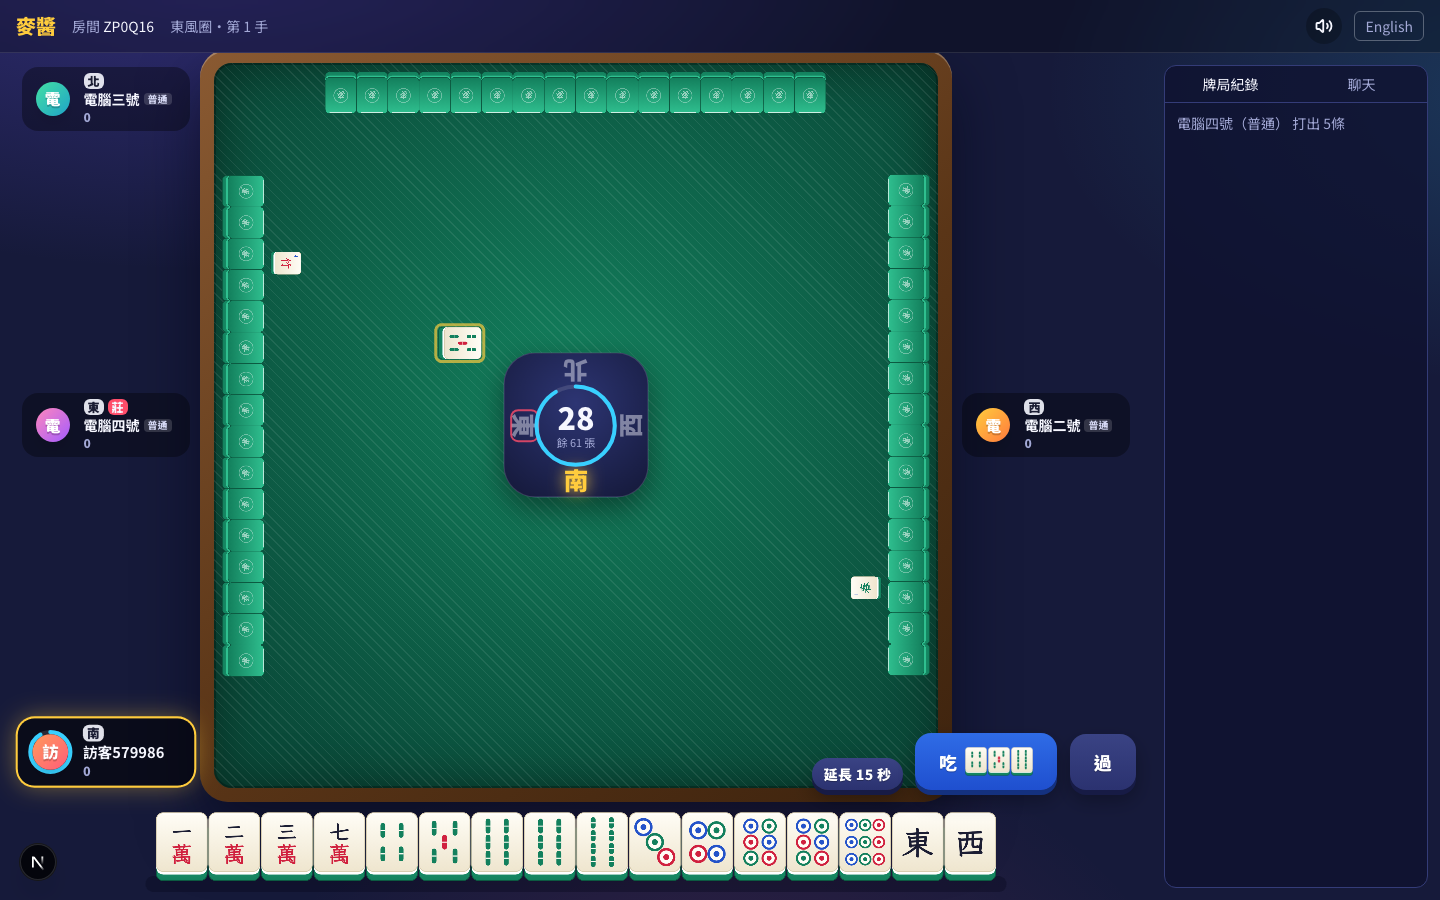
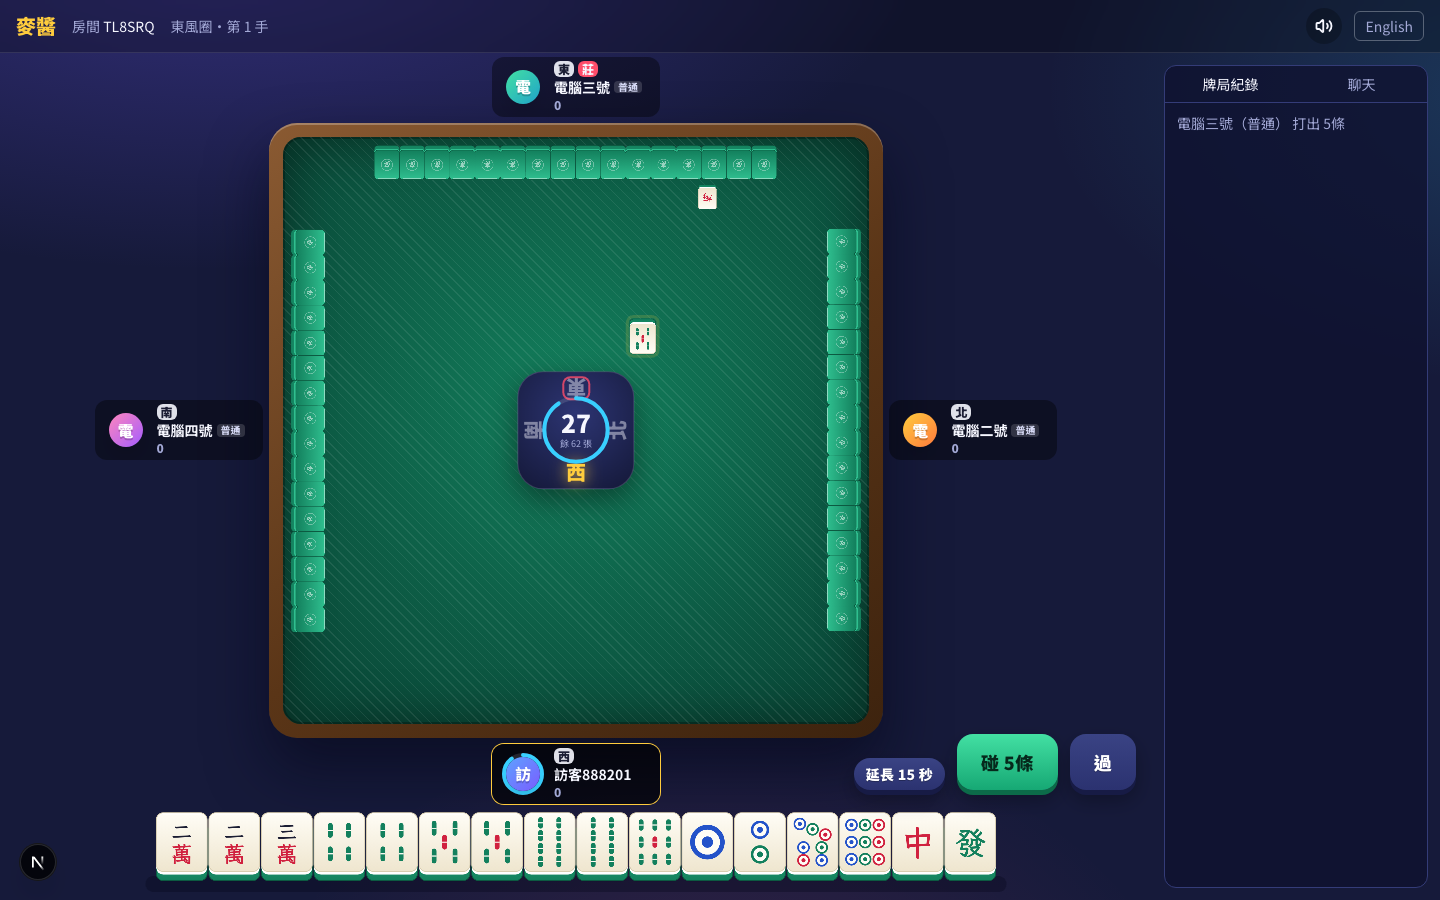
docs: expand product architecture and reinforcement learning guide

Changed region(s): [[0.0, 0.0311, 0.7812, 0.9644], [0.2812, 0.3422, 0.4688, 0.56]]

diff --git a/README.md b/README.md
@@ -12,8 +12,10 @@
 ## 目錄
 
 - [遊戲與產品](#遊戲與產品)
+- [操作與裝置支援](#操作與裝置支援)
 - [快速開始](#快速開始)
 - [規則與系統架構](#規則與系統架構)
+- [即時連線與資料流](#即時連線與資料流)
 - [AI 與強化學習](#ai-與強化學習)
 - [實驗與模型評估](#實驗與模型評估)
 - [開發自己的代理程式](#開發自己的代理程式)
@@ -50,6 +52,25 @@
 
 ![單人練習：從真實牌局抽出的情境](assets/screenshots/practice.png)
 
+## 操作與裝置支援
+
+桌面牌桌將四家資訊置於桌框外的四邊中央，保留牌河、手牌、副露與花牌的顯示空間。輪到玩家行動時，資訊區塊與倒數會標示目前狀態；吃、碰、槓、聽與補花以短暫的牌面標記呈現。
+
+手機對局以**橫向遊玩**為主要操作方式。窄螢幕直向進入對局會顯示旋轉提示，轉成橫向後自動顯示牌桌；大廳、課程與排行榜仍可直向瀏覽。這是依螢幕方向顯示的介面提示，瀏覽器不會強制旋轉作業系統畫面。矮螢幕會使用精簡玩家資訊與縮整的操作鈕。
+
+| 操作 | 鍵盤 |
+| --- | --- |
+| 選擇手牌 | `←`／`→` |
+| 打出選牌 | `Enter` |
+| 打出並宣告聽牌 | `T` |
+| 胡／碰／槓／吃 | `H`／`P`／`K`／`C` |
+| 過 | `X` |
+| 提示 | `?` |
+
+可操作動作以伺服器回傳的合法動作為準。牌桌另有可供螢幕閱讀器使用的手牌清單與狀態宣告；設定減少動態效果的裝置會停用大部分動畫。PWA 提供安裝與離線頁面，實際多人對局仍需要連線至後端。
+
+![手機橫向對局：四邊玩家資訊與一排手牌](assets/screenshots/table-landscape.png)
+
 ## 快速開始
 
 ### 需求
@@ -76,6 +97,34 @@ uv run python -m engine.cli watch --seed 3
 ~~~
 
 只需後端與遊戲功能時，可安裝 `uv sync --extra backend`；訓練與模型推論需要 `ai` 額外套件。更多環境變數參考 [`.env.example`](.env.example)。
+
+### 分別啟動服務
+
+需要調整埠號、除錯 WebSocket 或開啟多個終端機時，可以分別啟動：
+
+~~~bash
+# 終端機一：專案根目錄
+uv run --no-sync uvicorn backend.main:app --reload --host 127.0.0.1 --port 8000
+
+# 終端機二
+cd frontend
+pnpm dev
+~~~
+
+後端設定由程序環境變數讀取；`.env.example` 是設定參考。若另存為 `.env`，可使用 `uvicorn --env-file .env` 載入後端環境；前端的公開設定可放在 `frontend/.env.local`。`NEXT_PUBLIC_*` 會進入瀏覽器端程式，應僅放公開連線設定。
+
+### 模型與實驗資料
+
+`data/`、`checkpoints/`、`runs/` 都是本機產物目錄，預設不納入 Git。乾淨 clone 不會自動取得本機訓練權重、天梯原始牌譜或歷史訓練曲線。可先以內建規則代理遊玩，再依後文自行產生資料、訓練與評估。
+
+| 路徑 | 內容 | 產生方式 |
+| --- | --- | --- |
+| `data/bc/` | BC 用對局紀錄 | `scripts/simulate_batch.py --save` |
+| `checkpoints/` | PyTorch／SB3 權重與晉升設定 | 各 trainer 與 `ai.training.promote` |
+| `runs/<run>/config.json` | 該次訓練參數 | `MetricsLogger` |
+| `runs/<run>/metrics.jsonl` | 隨訓練追加的指標 | 各 trainer |
+| `data/replays/` | 本機錄影 | 後端對局持久化 |
+| `data/agents/` | 社群提交與模型 | 後端提交 API |
 
 ## 規則與系統架構
 
@@ -105,9 +154,72 @@ flowchart LR
 
 後端預設可使用 SQLite、程序內任務執行器與本機錄影儲存。需要跨實例房間恢復與發布訂閱時可接 Redis；持久化錄影可接 S3 相容儲存；實驗室背景工作可接 Celery。這些服務的設定入口集中在 [`.env.example`](.env.example) 與 [`docker-compose.yml`](docker-compose.yml)。
 
+### 規則引擎的邊界
+
+`GameState` 表達一手的手牌、副露、牌河、牌牆、莊家、圈風、行動階段與支付結果；`Match` 負責跨手的局數、分數與莊家推進。`get_legal_actions` 決定目前座位可採取的動作，`acting_players` 表達當下需要回應的座位。
+
+~~~mermaid
+stateDiagram-v2
+    [*] --> DISCARD: 發牌與補花
+    DISCARD --> RESPONSE: 打出一張牌
+    RESPONSE --> DISCARD: 無人取牌或完成吃碰槓
+    DISCARD --> ROB_KONG: 加槓的搶槓視窗
+    ROB_KONG --> DISCARD: 無人搶槓
+    RESPONSE --> ENDED: 胡牌
+    ROB_KONG --> ENDED: 搶槓胡
+    DISCARD --> ENDED: 自摸或流局
+    ENDED --> [*]
+~~~
+
+這張圖是主要階段的概覽；補花與槓後補牌等細節由引擎在決策之間推進。計分先選擇胡牌拆解與台型，再依各支付者和莊家的關係結算；完整判定以 [game.py](engine/game.py)、[score.py](engine/score.py) 與 `tests/engine/` 為準。
+
+## 即時連線與資料流
+
+HTTP API 處理帳號、房間建立、練習、歷史資料與實驗室任務；WebSocket 處理牌局狀態與行動。後端持有權威局面，前端送出動作後仍由引擎驗證，不以畫面上的按鈕作為規則判定依據。
+
+~~~mermaid
+sequenceDiagram
+    participant C as 瀏覽器
+    participant API as FastAPI
+    participant R as Room
+    participant E as 規則引擎
+    C->>API: POST /api/v1/rooms
+    C->>API: POST /api/v1/rooms/{id}/join
+    API-->>C: 座位與 WebSocket token
+    C->>API: WS /ws/game/{id}?token=...
+    API->>R: 連線與同步
+    R-->>C: JOINED / ROOM_STATE
+    C->>API: POST /api/v1/rooms/{id}/start
+    R->>E: 建立一手牌
+    R-->>C: STATE_UPDATE / ACTION_REQUEST
+    C->>R: ACTION
+    R->>E: apply_action
+    E-->>R: 新局面與事件
+    R-->>C: PLAYER_ACTION / STATE_UPDATE
+~~~
+
+[Room](backend/ws/hub.py) 管理座位、行動鎖、計時器、AI 任務與下一手流程。傳給玩家的局面經 [view.py](backend/ws/view.py) 遮蔽其他人的暗牌；觀戰也有獨立的公開視角。斷線會經過寬限期才由 AI 接管，重連是否收回控制權依後端重連視窗判斷。
+
+`batch=1` 啟用 WebSocket 批次訊息：同一波事件封裝成 `BATCH`，批次內只保留最後一份完整 `STATE_UPDATE`，其餘動作事件仍依序傳送。前端拆開批次後更新 Zustand；PixiJS 使用 sprite pool 重用牌張物件，DOM 層負責玩家資訊、操作鈕與無障礙內容，兩者共用 `tableLayout` 幾何資料。
+
+### API 導覽
+
+預設前綴是 `/api/v1`；完整 request／response schema 可在啟動後開啟 `/docs`。
+
+| 路由區域 | 用途 |
+| --- | --- |
+| `/auth`、`/profile`、`/shop` | 訪客與會員、個人進度、任務、外觀 |
+| `/rooms` | 建桌、配對、加入與開局 |
+| `/games/{id}` | 對局資料、重播、影格、下載與註解 |
+| `/tutor`、`/practice` | 課程、分析、問答與練習 |
+| `/lab` | 模擬、策略比較、訓練任務與 run 指標 |
+| `/agents` | 社群代理提交、驗證與資料 |
+| `/leaderboard`、`/seasons`、`/challenges` | 排行、賽季與挑戰 |
+| `/healthz`、`/metrics` | 健康檢查與監控，無 API 前綴 |
+
 ## AI 與強化學習
 
-mAIjong 將**遊戲中的 AI 難度**與**研究用模型**分開管理。玩家看到的 Lv1 是隨機代理，Lv2–3 是不同溫度的規則代理；Lv4 可載入 DQN checkpoint，否則退回規則代理。Lv5 優先讀取 `checkpoints/level5.json` 的晉升紀錄，也可載入已選出的神經網路模型；目前專案內的晉升紀錄指向 **CEM 調參的規則代理**（`checkpoints/rule_cem_v1.json`）；PPO 等模型在此仍屬研究候選。詳見 [代理工廠](ai/agents/__init__.py) 與 [晉升紀錄](checkpoints/level5.json)。
+mAIjong 將**遊戲中的 AI 難度**與**研究用模型**分開管理。玩家看到的 Lv1 是隨機代理，Lv2–3 是不同溫度的規則代理；Lv4 可載入 DQN checkpoint，否則退回規則代理。Lv5 優先讀取 `checkpoints/level5.json` 的晉升紀錄，也可載入已選出的神經網路模型；本機歷史實驗的晉升紀錄指向 **CEM 調參的規則代理**（`checkpoints/rule_cem_v1.json`）；PPO 等模型在此仍屬研究候選。詳見 [代理工廠](ai/agents/__init__.py) 與本機 `checkpoints/level5.json`。
 
 ### RL 問題定義
 
@@ -135,6 +247,48 @@ flowchart LR
     C --> V["同牌譜配對評估<br/>座位輪替"]
     V --> G["晉升為遊戲代理"]
 ~~~
+
+### 觀測特徵與資訊限制
+
+[SDK 特徵編碼](sdk/maijong_sdk/features.py) 將觀測轉為 `float32`。34 種牌只含一般牌，花牌資訊由 scalar 與觀測結構表示；對手暗牌不會出現在 SDK 觀測中。
+
+| `tiles` 通道 | 內容 |
+| --- | --- |
+| 0 | 自己手牌的各牌種數量 |
+| 1 | 自己副露出現的牌種 |
+| 2 | 自己牌河出現的牌種 |
+| 3–5 | 其餘三席牌河，按相對座位排列 |
+| 6–8 | 其餘三席公開副露 |
+| 9 | 剩餘可摸張數／64，廣播至各牌種 |
+| 10 | 尚未在牌河出現的牌種 |
+| 11 | 有效進張牌種 |
+| 12–13 | 自己門風與圈風 |
+
+13 個 scalar 包含連莊、自己與三名對手分數、總棄牌量、自己花牌台數、是否莊家、向聽，以及四席宣告聽牌旗標。分數除以 1000、向聽除以 8 等縮放方式固定於編碼器，修改特徵時應連同模型與 SDK 相容性一起考量。
+
+伺服器內部 `Agent.act` 為方便引擎整合會取得完整狀態，代理作者仍應遵守可見資訊限制；對外 `BaseAgent.decide` 接收遮蔽後的 `Observation`。神經網路編碼經 SDK 的 `observe`，避免直接把完整狀態輸入模型。
+
+### 108 個動作如何編碼
+
+| ID | 動作 |
+| --- | --- |
+| 0–33 | 打出指定牌種 |
+| 34–67 | 對指定牌種執行槓；實際槓類型依局面判斷 |
+| 68 | 碰 |
+| 69–71 | 三種吃牌組合 |
+| 72 | 胡 |
+| 73 | 過 |
+| 74–107 | 打出指定牌種並宣告聽牌 |
+
+動作編碼來自 [actions.py](engine/actions.py)。合法遮罩與模型分布必須一起使用：MaskablePPO 透過 `action_masks()` 取得遮罩，自寫策略在輸出分布排除非法動作。Gymnasium 環境對未遮罩的非法採樣會替換為合法動作並給懲罰；公開 SDK 驗證則會將代理回傳非法動作視為失敗。
+
+### 網路結構與學習設計
+
+共用 `MahjongEncoder` 預設使用三層 1D CNN（通道 64 → 128 → 128），沿 34 種牌抽取特徵後投影成 256 維 latent，再與 13 個 scalar 融合。程式另提供四層 Transformer encoder 選項；目前自寫 PPO trainer 使用 CNN 設定。
+
+PPO 的 actor 可用階層式 head：先輸出九類動作，再對打牌、聽牌與槓牌輸出條件牌種分布，最後轉回 108 個動作的 log-probability；critic 估計局面價值。Dueling DQN 則將 state value 與 action advantage 分開建模，訓練器搭配 target network、Double DQN、五步 return 與 prioritized replay。
+
+自我對弈聯盟保存歷史策略快照；抽到神經網路對手時，70% 從近期快照挑選、30% 從全部快照挑選，另以 `rule_share` 混入規則代理，降低只適應最近一版策略的風險。自寫 PPO 的 `--envs` 是多個環境的 rollout 收集；SB3 路線另外支援多程序環境，兩者的 CPU 利用方式不同。
 
 ### 訓練路線
 
@@ -181,6 +335,23 @@ for agent in game.agent_iter():
 
 ![實驗室：既有 ppo-v8 訓練紀錄與指標曲線](assets/screenshots/lab.png)
 
+### 訓練控制、硬體與紀錄
+
+BC 與自寫 PPO 提供 `--device auto|cpu|cuda|mps`。`auto` 優先 CUDA，未偵測到時使用 CPU；Apple MPS 需要明確指定 `--device mps`。這不代表每條 trainer 都接受相同 device 參數，執行前可用各模組的 `--help` 查看支援選項。
+
+~~~bash
+# 大資料採分塊讀取，限制單次載入手數
+uv run python -m ai.training.bc_trainer --data data/bc/rule_3k.jsonl.gz \
+  --out checkpoints/bc_chunked.pt --chunk-hands 5000 --device cpu --run bc-chunked
+
+# 自寫 Dueling DQN
+uv run python -m ai.training.dqn_trainer --steps 200000 --run dqn-baseline
+~~~
+
+`metrics.jsonl` 每筆紀錄含 `step`、`time` 與該 trainer 的指標；不同演算法的 step 單位可能不同。實驗室可顯示評估胡牌率、放槍率、policy／value loss、entropy、KL 等曲線，但只會呈現該 run 實際記錄的欄位。TensorBoard 與 W&B 是選用整合，需要另行安裝對應套件；設定 `WANDB_PROJECT` 本身不會安裝 `wandb`。
+
+[Train workflow](.github/workflows/train.yml) 可手動指定 runner、device、BC 資料手數與 PPO 更新次數，並上傳權重和 runs 作為 artifact。一般 CI 的小型訓練測試用於驗證管線能執行，實際模型強度應另外跑足夠規模的評估。
+
 ## 實驗與模型評估
 
 麻將的抽牌運氣與座位差異很大，因此模型比較使用**同副牌輪流坐四席**的配對設計。`ai.ladder` 的每個 block 讓四個代理在同一副牌上打四次；報告以 `lv3 = 1500` 為 Elo 錨點，並以 200 次 bootstrap 估計 95% 信賴區間。`ai.training.duplicate` 可在另外一批未參與搜尋的牌局上複驗候選模型。
@@ -194,7 +365,7 @@ uv run python -m ai.training.duplicate ppo:checkpoints/ppo_v7.pt \
   --baseline rule --hands 2000 --seed 123456
 ~~~
 
-以下是倉庫內 [`runs/ladder/main/ratings.json`](runs/ladder/main/ratings.json) 的**歷史快照**（2026-10-30；49,710 blocks／198,840 手），不是每次執行即時更新的排名：
+以下是倉庫內 `runs/ladder/main/ratings.json` 的**歷史快照**（2026-10-30；49,710 blocks／198,840 手），不是每次執行即時更新的排名：
 
 | 代理 | Elo（95% CI） | 每手相對淨得分（95% CI） | 胡牌率 |
 | --- | ---: | ---: | ---: |
@@ -207,6 +378,16 @@ uv run python -m ai.training.duplicate ppo:checkpoints/ppo_v7.pt \
 | `random` | 1231（1224–1239） | −169.7（−171.6–−167.5） | 0.1% |
 
 前段模型的區間大量重疊，不能僅依名次宣稱其中一個明顯較強。這份快照中的 `lv5` 名稱仍指**舊的**規則參數；當前正式 Lv5 對應 `cem_v1` 的晉升紀錄。CEM 候選在未見牌局上對舊 Lv5 的三批配對結果分別是 +2.9、+7.7、+8.4 點／手（共 36,000 副配對牌局，合併約 +6.3 ± 1.8）。重複在相同 seed 上調參會對牌局過擬合；新的結論應換 seed 再驗證。
+
+### 如何解讀評估
+
+- **胡牌率**衡量成為贏家的頻率，並未完整包含台數與支付風險。
+- **放槍率**是防守指標之一；其他玩家自摸時的支付仍會影響淨得分。
+- **每手相對淨得分**由對手池共同擬合並校正對手強度，不能直接當成固定對手下的原始平均得分。
+- **Elo**反映這個代理池內的相對強度；錨點與對手池變動時，不能直接拿不同報告的分數跨實驗比較。
+- **信賴區間**描述樣本不確定性；區間相近時應增加牌局、換獨立 seed，並保留原始設定。
+
+歷史表中的原始 blocks、完整權重與評估檔不隨 Git 發布，因此表格是實驗結果介紹，不是下載後即可逐位元重現的 benchmark 套件。自行研究時建議保存 Git commit、代理 spec、checkpoint hash、種子、對手池、手數、座位輪替方式與評估輸出。
 
 ## 開發自己的代理程式
 
@@ -232,6 +413,25 @@ uv run python -m maijong_sdk.cli validate submission.zip
 
 將 `submission.zip` 上傳至網站的「社群 AI」，通過 10 手驗證後會進入競技場；封裝可包含 `model.pt`，額外需求僅允許 `torch` 與 `numpy`。SDK 可於 `sdk/` 獨立安裝，要求 Python 3.10+，詳見 [SDK 設定](sdk/pyproject.toml)。
 
+### 提交協定與驗證邊界
+
+SDK 的生命週期包含 `on_game_start`、`decide` 與 `on_game_end`。打包後的目錄以 `manifest.json` 指定代理類別，透過逐行 JSON 的 stdin／stdout 協定與執行器交換 `start`、`decide`、`end` 訊息。
+
+~~~mermaid
+flowchart LR
+    A["撰寫 BaseAgent"] --> B["本機 evaluate"]
+    B --> C["pack / validate"]
+    C --> D["上傳 submission.zip"]
+    D --> E["PENDING"]
+    E --> F["10 手合法性與時間驗證"]
+    F --> G["ACTIVE：進入競技場"]
+    F --> H["REJECTED：修正後重新提交"]
+~~~
+
+每次決策上限為 5 秒，執行器會檢查回傳動作是否合法；壓縮檔上限為 200 MB，允許的檔案是 `agent.py`、`manifest.json`、`requirements.txt` 與選用的 `model.pt`。單檔代理應將輔助邏輯放在同一個 `agent.py`，並保持 stdout 供協定使用。
+
+`MAIJONG_SANDBOX=docker` 且 Docker 可用時，驗證器會以無網路、唯讀 submission 掛載與記憶體限制執行代理；否則使用子程序，部分平台可施加資源限制。兩種模式的隔離能力不同，接受外部代理的部署應明確配置 Docker 沙盒。實作見 [validation.py](sdk/maijong_sdk/validation.py)。
+
 ## 部署、設定與測試
 
 ### Docker Compose
@@ -244,6 +444,40 @@ docker compose down
 
 Compose 會啟動 PostgreSQL、Redis、SeaweedFS S3、後端與前端；網站為 `localhost:3000`、API 為 `localhost:8000`、S3 為 `localhost:8333`。錄影預簽名連結使用 `S3_PUBLIC_ENDPOINT` 作為瀏覽器可到達的位址。正式部署至少應設定自己的 `SECRET_KEY`、`CORS_ORIGINS` 與儲存端點；完整項目見 [環境變數範例](.env.example)。
 
+### 環境變數與服務選擇
+
+| 變數 | 作用 |
+| --- | --- |
+| `DATABASE_URL` | SQLite 或 PostgreSQL SQLAlchemy URL |
+| `SECRET_KEY`、`TOKEN_TTL_HOURS` | Token 簽章與帳號 token 有效期 |
+| `CORS_ORIGINS` | 允許存取 API 的前端來源，以逗號分隔 |
+| `NEXT_PUBLIC_API_URL`、`NEXT_PUBLIC_WS_URL` | 瀏覽器連到的 HTTP／WebSocket 端點 |
+| `MAIJONG_DATA_DIR`、`REPLAY_DIR` | 應用資料與本機錄影目錄 |
+| `REDIS_URL`、`INSTANCE_ID` | 房間快照、pub/sub 與實例識別 |
+| `S3_ENDPOINT`、`S3_BUCKET`、`S3_ACCESS_KEY`、`S3_SECRET_KEY` | 後端物件儲存連線 |
+| `S3_PUBLIC_ENDPOINT` | 瀏覽器下載預簽名連結使用的端點 |
+| `CELERY_BROKER_URL`、`LAB_WORKERS` | 背景任務 broker 與本機 worker 數 |
+| `ADMIN_TOKEN`、`ARENA_INTERVAL` | 管理操作保護與競技場排程間隔 |
+| `HINT_LLM_PROVIDER`、`HINT_LLM_API_KEY` | 選用的自然語言提示供應者 |
+| `METRICS_TOKEN`、`SENTRY_DSN` | 指標存取保護與選用錯誤追蹤 |
+| `RATE_LIMIT_AUTH_PER_MIN`、`RATE_LIMIT_API_PER_MIN`、`RATE_LIMIT_WS_PER_SEC` | 認證、一般 API 與 socket 訊息速率限制 |
+
+Compose 內的 `s3` 服務名稱可供容器互通，瀏覽器則需要可公開存取的主機名稱；HTTP 與 WebSocket 都應使用對應的部署端點。前端公開變數會在建置時寫入程式，切換站台位置後應重新建置。
+
+本機快速啟動會建立資料表；正式 schema 升級使用 Alembic：
+
+~~~bash
+uv run alembic upgrade head
+~~~
+
+目前後端 Docker 啟動指令會先執行 migration。持久化資料庫、錄影與代理提交目錄應保留在 volume 或外部服務；替換容器不等於備份資料。Redis 的跨實例觀戰與房間恢復也不代表任意實例都能接手同一個座位連線，座位仍有房間所屬實例的限制。
+
+### 安全與可觀測性
+
+後端包含 token 驗證、速率限制與代理上傳結構檢查；server log 會遮蔽 WebSocket token。`/metrics` 提供 Prometheus 文字格式，設定 `METRICS_TOKEN` 後需附 Bearer token。Sentry 整合屬選用功能，需要額外安裝套件及設定 DSN。
+
+若部署在反向代理後方，`TRUSTED_PROXY_HEADER` 應與實際代理提供的 client-IP header 一致，且後端只接受該代理的連線，避免客戶端自行偽造來源 IP。
+
 ### 驗證
 
 ~~~bash
@@ -254,6 +488,31 @@ uv run mypy
 ~~~
 
 測試涵蓋規則與計分、RL 環境與代理、後端房間／安全／錄影、SDK，以及 Playwright 瀏覽器對局。修改規則時，先跑 `tests/engine/`，並確認重播與支付結果一致。
+
+### CI 與開發流程
+
+[CI workflow](.github/workflows/ci.yml) 將驗證分成 Python、前端、端對端與 Docker 四個 job：
+
+| Job | 檢查 |
+| --- | --- |
+| Python | 安裝全部 extras、Ruff、mypy、pytest 與 coverage 門檻 |
+| Frontend | frozen lockfile 安裝、ESLint、TypeScript 與正式 build |
+| E2E | 啟動隔離的 API／前端埠，使用 Chromium 執行實際瀏覽器流程 |
+| Docker | 三種映像建置、沙盒無網路執行、API 健康檢查與 Compose 啟動 |
+
+[Nightly simulation](.github/workflows/nightly.yml) 與 [SDK 發布](.github/workflows/publish-sdk.yml) 另有獨立 workflow。執行端對端測試前可先以 `pnpm exec playwright install chromium` 安裝瀏覽器；測試設定會自行啟動 8010／3110 埠的服務。
+
+### 常見問題
+
+**能只用規則 AI 遊玩嗎？** 可以。後端與規則代理不要求先完成模型訓練；Lv4／Lv5 會依可用權重與晉升設定選擇代理，缺少神經網路依賴時使用規則路徑。
+
+**為何實驗室沒有歷史曲線？** 乾淨 clone 沒有 `runs/`。先執行 trainer，或把自己保存的 run 目錄放回目前設定的 runs 路徑。
+
+**為何手機顯示旋轉提示？** 對局需要橫向容納十六張手牌與四席牌面；提示依 viewport 方向切換，請確認裝置的旋轉鎖定設定。
+
+**API 能連上，牌桌卻一直重連？** 檢查公開 WebSocket URL、反向代理的 WebSocket upgrade、token，以及房間是否由另一個實例持有。HTTPS 頁面也應使用安全的 WebSocket 連線。
+
+**訓練 loss 降低，模型為何未必變強？** BC loss 衡量模仿資料，RL reward 可能包含 shaping，兩者都不等同於獨立牌局下的支付表現。以固定對手、座位輪替與未見 seed 重新評估，再考慮晉升。
 
 ## 授權與貢獻
 
